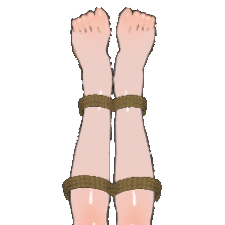
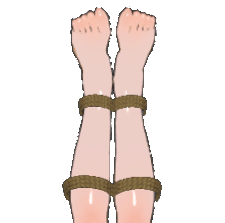
Hogtie Scripts
Hogtie Scripts

diff --git a/BondageClub/Screens/Inventory/ItemArms/HempRope/HempRope.js b/BondageClub/Screens/Inventory/ItemArms/HempRope/HempRope.js
@@ -2,29 +2,30 @@
 
 // Loads the item extension properties
 function InventoryItemArmsHempRopeLoad() {
-	if (DialogFocusItem.Property == null) DialogFocusItem.Property = { Type: null };
+	if (DialogFocusItem.Property == null) DialogFocusItem.Property = { Type: null, Effect: [] };
+	DialogExtendedMessage = DialogFind(Player, "SelectRopeBondage");
 }
 
 // Draw the item extension screen
 function InventoryItemArmsHempRopeDraw() {
-	
+
 	// Draw the header and item
 	DrawRect(1387, 125, 225, 275, "white");
 	DrawImageResize("Assets/" + DialogFocusItem.Asset.Group.Family + "/" + DialogFocusItem.Asset.Group.Name + "/Preview/" + DialogFocusItem.Asset.Name + ".png", 1389, 127, 221, 221);
 	DrawTextFit(DialogFocusItem.Asset.Description, 1500, 375, 221, "black");
 
 	// Draw the possible positions and their requirements
-	DrawText(DialogFind(Player, "SelectBondagePosition"), 1500, 500, "white", "gray");
+	DrawText(DialogExtendedMessage, 1500, 475, "white", "gray");
 	DrawButton(1050, 550, 225, 225, "", (DialogFocusItem.Property.Type == null) ? "#888888" : "White");
-	DrawImage("Screens/Inventory/" + DialogFocusItem.Asset.Group.Name + "/" + DialogFocusItem.Asset.Name + "/BoxTie.png", 1050, 550);
+	DrawImage("Screens/Inventory/" + DialogFocusItem.Asset.Group.Name + "/" + DialogFocusItem.Asset.Name + "/BoxTie.png", 1050, 551);
 	DrawText(DialogFind(Player, "RopeBondageBoxTie"), 1163, 800, "white", "gray");
 	DrawText(DialogFind(Player, "NoRequirement"), 1163, 850, "white", "gray");
 	DrawButton(1387, 550, 225, 225, "", ((DialogFocusItem.Property.Type != null) && (DialogFocusItem.Property.Type == "Hogtied")) ? "#888888" : (SkillGetLevelReal(Player, "Bondage") < 4) ? "Pink" : "White");
-	DrawImage("Screens/Inventory/" + DialogFocusItem.Asset.Group.Name + "/" + DialogFocusItem.Asset.Name + "/Hogtied.png", 1387, 550);
+	DrawImage("Screens/Inventory/" + DialogFocusItem.Asset.Group.Name + "/" + DialogFocusItem.Asset.Name + "/Hogtied.png", 1387, 551);
 	DrawText(DialogFind(Player, "RopeBondageHogtied"), 1500, 800, "white", "gray");
 	DrawText(DialogFind(Player, "RequireBondageLevel").replace("ReqLevel", "4"), 1500, 850, "white", "gray");
 	DrawButton(1725, 550, 225, 225, "", ((DialogFocusItem.Property.Type != null) && (DialogFocusItem.Property.Type == "SuspensionHogtied")) ? "#888888" : (SkillGetLevelReal(Player, "Bondage") < 8) ? "Pink" : "White");
-	DrawImage("Screens/Inventory/" + DialogFocusItem.Asset.Group.Name + "/" + DialogFocusItem.Asset.Name + "/SuspensionHogtied.png", 1725, 550);
+	DrawImage("Screens/Inventory/" + DialogFocusItem.Asset.Group.Name + "/" + DialogFocusItem.Asset.Name + "/SuspensionHogtied.png", 1725, 551);
 	DrawText(DialogFind(Player, "RopeBondageSuspensionHogtied"), 1838, 800, "white", "gray");
 	DrawText(DialogFind(Player, "RequireBondageLevel").replace("ReqLevel", "8"), 1838, 850, "white", "gray");
 
@@ -39,7 +40,7 @@ function InventoryItemArmsHempRopeClick() {
 }
 
 // Sets the hemp rope pose (hogtied, suspension, etc.)
-function InventoryItemArmsHempRopeSetPose(NewPose) {
+function InventoryItemArmsHempRopeSetPose(NewType) {
 
 	// Gets the current item and character
 	var C = (Player.FocusGroup != null) ? Player : CurrentCharacter;
@@ -48,29 +49,48 @@ function InventoryItemArmsHempRopeSetPose(NewPose) {
 		InventoryItemArmsHempRopeLoad();
 	}
 
-	// Make sure the character can be restrained in that fashion
-	if ((NewPose != null) && !InventoryAllow(C, ["NotKneeling", "NotSuspended", "NotMounted", "NotChained"], true)) return;
+	// Validates a few parameters before hogtied
+	if ((NewType != null) && !InventoryAllow(C, ["NotKneeling", "NotMounted", "NotChained", "NotHogtied"], true)) { DialogExtendedMessage = DialogText; return; }
 
 	// Sets the new pose with it's effects
-	DialogFocusItem.Property.Type = NewPose;
-	DialogFocusItem.Property.Effect = (NewPose == null) ? [] : "Freeze";
-	DialogFocusItem.Property.Block = (NewPose == null) ? null : ["ItemHands", "ItemLegs", "ItemFeet", "ItemBoots"];
-	if (NewPose == null) { DialogFocusItem.Property.SetPose = ["BackBoxTie"]; DialogFocusItem.Property.Difficulty = 0; }
-	if (NewPose == "Hogtied") { DialogFocusItem.Property.SetPose = ["Hogtied"]; DialogFocusItem.Property.Difficulty = 2; CharacterSetFacialExpression(C, "Blush", "Medium"); TimerInventoryRemoveSet(C, "Blush", 10); }
-	if (NewPose == "SuspensionHogtied") { DialogFocusItem.Property.SetPose = ["SuspensionHogtied"]; DialogFocusItem.Property.Difficulty = 6; CharacterSetFacialExpression(C, "Blush", "Medium"); TimerInventoryRemoveSet(C, "Blush", 20); }
-
-	// Refreshes the character and chatroom
+	DialogFocusItem.Property.Type = NewType;
+	DialogFocusItem.Property.Effect = (NewType == null) ? ["Block", "Prone"] : ["Block", "Freeze", "Prone"];
+	DialogFocusItem.Property.Block = (NewType == null) ? null : ["ItemHands", "ItemLegs", "ItemFeet", "ItemBoots"];
+	if (NewType == null) {
+		DialogFocusItem.Property.SetPose = ["BackBoxTie"];
+		DialogFocusItem.Property.Difficulty = 0;
+		InventoryRemove(C, "ItemHidden");
+	}
+	if (NewType == "Hogtied") {
+		DialogFocusItem.Property.SetPose = ["Hogtied"];
+		DialogFocusItem.Property.Difficulty = 2;
+		CharacterSetFacialExpression(C, "Blush", "Medium");
+		TimerInventoryRemoveSet(C, "Blush", 10);
+		InventoryRemove(C, "ItemHidden");
+	}
+	if (NewType == "SuspensionHogtied") {
+		DialogFocusItem.Property.SetPose = ["Hogtied", "SuspensionHogtied"]; 
+		DialogFocusItem.Property.Difficulty = 6; 
+		CharacterSetFacialExpression(C, "Blush", "Medium"); 
+		TimerInventoryRemoveSet(C, "Blush", 20);
+		InventoryWear(C, "SuspensionHempRope", "ItemHidden", DialogFocusItem.Color);
+	}
 	CharacterRefresh(C);
-	var msg = "HempRopePosition" + ((NewPose == null) ? "BoxTie" : NewPose);
-	var Dictionary = [];
-	Dictionary.push({Tag: "SourceCharacter", Text: Player.Name, MemberNumber: Player.MemberNumber});
-	Dictionary.push({Tag: "DestinationCharacter", Text: C.Name, MemberNumber: C.MemberNumber});
-	ChatRoomPublishCustomAction(msg, true, Dictionary);
 
-	// Rebuilds the inventory menu
-	if (DialogInventory != null) {
-		DialogFocusItem = null;
-		DialogMenuButtonBuild(C);
+	// Sets the chatroom or NPC message
+	if (CurrentScreen == "ChatRoom") {
+		ChatRoomCharacterUpdate(C);
+		var msg = "ArmsRopeSet" + ((NewType) ? NewType : "BoxTie");
+		var Dictionary = [];
+		Dictionary.push({Tag: "SourceCharacter", Text: Player.Name, MemberNumber: Player.MemberNumber});
+		Dictionary.push({Tag: "DestinationCharacter", Text: C.Name, MemberNumber: C.MemberNumber});
+		ChatRoomPublishCustomAction(msg, true, Dictionary);
+	} else {
+		if (C.ID == 0) DialogMenuButtonBuild(C);
+		else {
+			C.CurrentDialog = DialogFind(C, "RopeBondage" + ((NewType) ? NewType : "BoxTie"), "ItemArms");
+			C.FocusGroup = null;
+		}
 	}
 
 }

diff --git a/BondageClub/Assets/Female3DCG/Female3DCG.js b/BondageClub/Assets/Female3DCG/Female3DCG.js
@@ -1002,7 +1002,7 @@ var AssetFemale3DCG = [
 		Zone: [[30, 250, 100, 150], [370, 250, 100, 150]],
 		Asset: [
 			{ Name: "NylonRope", DefaultColor: "#909090", SelfBondage: false, Value: 30, BuyGroup: ["NylonRope"], SetPose: ["BackBoxTie"], Effect: ["Block", "Prone"], Time: 15 },
-			{ Name: "HempRope", Extended: true, SelfBondage: false, Value: 60, SetPose: ["BackBoxTie"], BuyGroup: ["HempRope"], Effect: ["Block", "Prone"], Time: 20, Difficulty: 3 },
+			{ Name: "HempRope", Extended: true, SelfBondage: false, Value: 60, SetPose: ["BackBoxTie"], AllowType: ["Hogtied", "SuspensionHogtied"], BuyGroup: ["HempRope"], Effect: ["Block", "Prone"], Time: 20, Difficulty: 3, RemoveItemOnRemove: [{ Name: "SuspensionHempRope", Group: "ItemHidden" }] },
 			{ Name: "MetalCuffs", Priority: 30, Value: 40, SetPose: ["BackCuffs"], Effect: ["Block", "Prone", "Lock"], Difficulty: 5, Time: 5 },
 			{ Name: "SturdyLeatherBelts", SelfBondage: false, AllowLock: true, Value: 50, SetPose: ["BackElbowTouch"], Effect: ["Block", "Prone"], Time: 20, Difficulty: 5, BuyGroup: "SturdyLeatherBelts", Extended: true, AllowType: ["One", "Two", "Three", "Four"] },
 			{ Name: "LeatherArmbinder", DefaultColor: "#404040", Extended: true, SelfBondage: false, SelfUnlock: false, Priority: 6, Value: 80, SetPose: ["BackElbowTouch"], Effect: ["Block", "Prone"], Block: ["ItemHands"], Time: 25, RemoveTime: 10, Difficulty: 10, AllowLock: true, RemoveItemOnRemove: [{ Name: "LeatherArmbinderStrap", Group: "ItemHidden" },{ Name: "LeatherArmbinderWrapStrap", Group: "ItemHidden"}] },
@@ -1524,7 +1524,7 @@ var AssetFemale3DCG = [
 			{ Name: "DogHood", DefaultColor: "#404040", Random: false, Effect: ["Prone", "GagNormal"], Hide: ["HairFront", "HairBack", "Glasses", "ItemMouth", "ItemMouth2", "ItemMouth3", "HairAccessory1", "HairAccessory2"], Block: ["ItemMouth", "ItemMouth2", "ItemMouth3", "ItemEars"], Difficulty: 50, Value: 60, Time: 15, AllowLock: true },
 			{ Name: "FoxyMask", Random: false, Effect: ["Prone", "GagLight"], Hide: ["Glasses", "ItemMouth", "ItemMouth2", "ItemMouth3"], Block: ["ItemMouth", "ItemMouth2", "ItemMouth3"], Difficulty: 2, Value: 50, Time: 15, AllowLock: true },
 			{ Name: "SleepMask", Effect: ["BlindLight", "Prone"], Hide: ["Glasses"], Value: 5, Time: 5 },
-			{ Name: "BlackoutLenses", Effect: ["BlindHeavy", "Prone"], Hide: ["Glasses", "Eyes"], Difficulty: 10, Value: 60 }
+			{ Name: "BlackoutLenses", Random: false, Effect: ["BlindHeavy", "Prone"], Hide: ["Glasses", "Eyes"], Difficulty: 10, Value: 60 }
 		]
 	},
 
@@ -1649,8 +1649,9 @@ var AssetFemale3DCG = [
 		IsRestraint: true,
 		Color: ["Default"],
 		Asset: [
-		    { Name: "LeatherArmbinderStrap", RemoveAtLogin: false, Priority: 32,  AllowType: ["Strap", "WrapStrap", "None"], Value: -1, Time: 5, Difficulty: 12 },
-			{ Name: "LeatherArmbinderWrapStrap", RemoveAtLogin: false, Priority: 32, AllowType: ["WrapStrap", "None"], Value: -1, Time: 5, Difficulty: 12 }
+		    { Name: "LeatherArmbinderStrap", Priority: 32,  AllowType: ["Strap", "WrapStrap", "None"], Value: -1 },
+			{ Name: "LeatherArmbinderWrapStrap", Priority: 32, AllowType: ["WrapStrap", "None"], Value: -1 },
+			{ Name: "SuspensionHempRope", Priority: 32, Value: -1 }
 		]
 	}
 	
@@ -1681,6 +1682,16 @@ var PoseFemale3DCG = [
 	{
 		Name: "Hogtied",
 		OverrideHeight: -575,
+		Hide: ["BodyLower", "Hands", "ClothLower", "Socks", "Shoes", "Wings", "TailStraps", "Gloves", "Panties", "Pussy", "ItemHands", "ItemPelvis", "ItemVulva", "ItemButt", "ItemLegs", "ItemFeet"]
+	},
+	{
+		Name: "Suspension",
+		OverrideHeight: 150,
+		Hide: []
+	},
+	{
+		Name: "SuspensionHogtied",
+		OverrideHeight: 0,
 		Hide: ["BodyLower", "Hands", "ClothLower", "Socks", "Shoes", "Wings", "TailStraps", "Gloves", "Panties", "Pussy", "ItemHands", "ItemPelvis", "ItemVulva", "ItemButt", "ItemLegs", "ItemFeet"]
 	}
 

diff --git a/BondageClub/Screens/Inventory/ItemFeet/HempRope/HempRope.js b/BondageClub/Screens/Inventory/ItemFeet/HempRope/HempRope.js
@@ -1,10 +1,9 @@
 "use strict";
-var InventoryItemFeetHempRopeMessage = "";
 
 // Loads the item extension properties
 function InventoryItemFeetHempRopeLoad() {
-	if (DialogFocusItem.Property == null) DialogFocusItem.Property = { Type: null };
-	InventoryItemFeetHempRopeMessage = DialogFind(Player, "SelectRopeBondage");
+	if (DialogFocusItem.Property == null) DialogFocusItem.Property = { Type: null, Effect: [] };
+	DialogExtendedMessage = DialogFind(Player, "SelectRopeBondage");
 }
 
 // Draw the item extension screen
@@ -16,7 +15,7 @@ function InventoryItemFeetHempRopeDraw() {
 	DrawTextFit(DialogFocusItem.Asset.Description, 1500, 375, 221, "black");
 
 	// Draw the possible positions and their requirements
-	DrawText(InventoryItemFeetHempRopeMessage, 1500, 475, "white", "gray");
+	DrawText(DialogExtendedMessage, 1500, 475, "white", "gray");
 	DrawButton(1050, 550, 225, 225, "", (DialogFocusItem.Property.Type == null || DialogFocusItem.Property.Type == "Basic") ? "#888888" : "White");
 	DrawImage("Screens/Inventory/" + DialogFocusItem.Asset.Group.Name + "/" + DialogFocusItem.Asset.Name + "/Basic.png", 1050, 551);
 	DrawText(DialogFind(Player, "RopeBondageBasic"), 1163, 800, "white", "gray");
@@ -51,14 +50,8 @@ function InventoryItemFeetHempRopeSetType(NewType) {
 	}
 
 	// Validates a few parameters before suspending
-	if ((NewType == "Suspension") && !InventoryAllow(C, ["NotKneeling", "NotMounted", "NotChained", "NotHogtied"], true)) {
-		InventoryItemFeetHempRopeMessage = DialogText;
-		return;
-	}
-	if ((NewType == "Suspension") && (C.ID == 0)) {
-		InventoryItemFeetHempRopeMessage = DialogFind(Player, "CannotUseOnSelf");
-		return;
-	}
+	if ((NewType == "Suspension") && !InventoryAllow(C, ["NotKneeling", "NotMounted", "NotChained", "NotHogtied"], true)) { DialogExtendedMessage = DialogText; return; }
+	if ((NewType == "Suspension") && (C.ID == 0)) { DialogExtendedMessage = DialogFind(Player, "CannotUseOnSelf"); return; }
 
 	// Sets the position, difficulty and blush effect
 	DialogFocusItem.Property.Type = NewType;
@@ -77,22 +70,23 @@ function InventoryItemFeetHempRopeSetType(NewType) {
 		CharacterSetFacialExpression(C, "Blush", "High");
 		TimerInventoryRemoveSet(C, "Blush", 30);
 	}
-
-	// Refreshes the character
 	CharacterRefresh(C);
-	ChatRoomCharacterUpdate(C);
 
-	// Sets the chatroom message
-	var msg = "LegRopeSet" + ((NewType) ? NewType : "Basic");
-	var Dictionary = [];
-	Dictionary.push({Tag: "SourceCharacter", Text: Player.Name, MemberNumber: Player.MemberNumber});
-	Dictionary.push({Tag: "TargetCharacter", Text: C.Name, MemberNumber: C.MemberNumber});
-	ChatRoomPublishCustomAction(msg, true, Dictionary);
-
-	// Rebuilds the inventory menu
-	if (DialogInventory != null) {
+	// Sets the chatroom or NPC message
+	if (CurrentScreen == "ChatRoom") {
+		ChatRoomCharacterUpdate(C);
+		var msg = "LegRopeSet" + ((NewType) ? NewType : "Basic");
+		var Dictionary = [];
+		Dictionary.push({Tag: "SourceCharacter", Text: Player.Name, MemberNumber: Player.MemberNumber});
+		Dictionary.push({Tag: "TargetCharacter", Text: C.Name, MemberNumber: C.MemberNumber});
+		ChatRoomPublishCustomAction(msg, true, Dictionary);
+	} else {
 		DialogFocusItem = null;
-		DialogMenuButtonBuild(C);
+		if (C.ID == 0) DialogMenuButtonBuild(C);
+		else {
+			C.CurrentDialog = DialogFind(C, "RopeBondage" + ((NewType) ? NewType : "Basic"), "ItemFeet");
+			C.FocusGroup = null;
+		}
 	}
 
 }

diff --git a/BondageClub/Screens/Inventory/ItemLegs/HempRope/HempRope.js b/BondageClub/Screens/Inventory/ItemLegs/HempRope/HempRope.js
@@ -2,7 +2,7 @@
 
 // Loads the item extension properties
 function InventoryItemLegsHempRopeLoad() {
-	if (DialogFocusItem.Property == null) DialogFocusItem.Property = { Type: null };
+	if (DialogFocusItem.Property == null) DialogFocusItem.Property = { Type: null, Effect: [] };
 }
 
 // Draw the item extension screen
@@ -16,11 +16,11 @@ function InventoryItemLegsHempRopeDraw() {
 	// Draw the possible rope bondage positions
 	DrawText(DialogFind(Player, "SelectRopeBondage"), 1500, 475, "white", "gray");
 	DrawButton(1175, 550, 225, 225, "", (DialogFocusItem.Property.Type == null || DialogFocusItem.Property.Type == "Basic") ? "#888888" : "White");
-	DrawImage("Screens/Inventory/" + DialogFocusItem.Asset.Group.Name + "/" + DialogFocusItem.Asset.Name + "/Basic.png", 1175, 550);
+	DrawImage("Screens/Inventory/" + DialogFocusItem.Asset.Group.Name + "/" + DialogFocusItem.Asset.Name + "/Basic.png", 1175, 551);
 	DrawText(DialogFind(Player, "RopeBondageBasic"), 1288, 800, "white", "gray");
 	DrawText(DialogFind(Player, "NoRequirement").replace("ReqLevel", "2"), 1288, 850, "white", "gray");
 	DrawButton(1600, 550, 225, 225, "", ((DialogFocusItem.Property.Type != null) && (DialogFocusItem.Property.Type == "Mermaid")) ? "#888888" : (SkillGetLevelReal(Player, "Bondage") < 2) ? "Pink" : "White");
-	DrawImage("Screens/Inventory/" + DialogFocusItem.Asset.Group.Name + "/" + DialogFocusItem.Asset.Name + "/Mermaid.png", 1600, 550);
+	DrawImage("Screens/Inventory/" + DialogFocusItem.Asset.Group.Name + "/" + DialogFocusItem.Asset.Name + "/Mermaid.png", 1600, 551);
 	DrawText(DialogFind(Player, "RopeBondageMermaid"), 1713, 800, "white", "gray");
 	DrawText(DialogFind(Player, "RequireBondageLevel").replace("ReqLevel", "2"), 1713, 850, "white", "gray");
 
@@ -48,22 +48,23 @@ function InventoryItemLegsHempRopeSetType(NewType) {
 	DialogFocusItem.Property.Effect = [];
 	if (NewType == null) DialogFocusItem.Property.Difficulty = 0;
 	if (NewType == "Mermaid") DialogFocusItem.Property.Difficulty = 2;
-
-	// Refreshes the character
 	CharacterRefresh(C);
-	ChatRoomCharacterUpdate(C);
 
-	// Sets the chatroom message
-	var msg = "LegRopeSet" + ((NewType) ? NewType : "Basic");
-	var Dictionary = [];
-	Dictionary.push({Tag: "SourceCharacter", Text: Player.Name, MemberNumber: Player.MemberNumber});
-	Dictionary.push({Tag: "TargetCharacter", Text: C.Name, MemberNumber: C.MemberNumber});
-	ChatRoomPublishCustomAction(msg, true, Dictionary);
-
-	// Rebuilds the inventory menu
-	if (DialogInventory != null) {
+	// Sets the chatroom or NPC message
+	if (CurrentScreen == "ChatRoom") {
+		ChatRoomCharacterUpdate(C);
+		var msg = "LegRopeSet" + ((NewType) ? NewType : "Basic");
+		var Dictionary = [];
+		Dictionary.push({Tag: "SourceCharacter", Text: Player.Name, MemberNumber: Player.MemberNumber});
+		Dictionary.push({Tag: "TargetCharacter", Text: C.Name, MemberNumber: C.MemberNumber});
+		ChatRoomPublishCustomAction(msg, true, Dictionary);
+	} else {
 		DialogFocusItem = null;
-		DialogMenuButtonBuild(C);
+		if (C.ID == 0) DialogMenuButtonBuild(C);
+		else {
+			C.CurrentDialog = DialogFind(C, "RopeBondage" + ((NewType) ? NewType : "Basic"), "ItemLegs");
+			C.FocusGroup = null;
+		}
 	}
 
 }

diff --git a/BondageClub/Scripts/Dialog.js b/BondageClub/Scripts/Dialog.js
@@ -24,6 +24,7 @@ var DialogAllowEyebrows = false;
 var DialogAllowFluids = false;
 var DialogFacialExpressions = [];
 var DialogItemPermissionMode = false;
+var DialogExtendedMessage = "";
 
 function DialogReputationLess(RepType, Value) { return (ReputationGet(RepType) <= Value); } // Returns TRUE if a specific reputation type is less or equal than a given value
 function DialogReputationGreater(RepType, Value) { return (ReputationGet(RepType) >= Value); } // Returns FALSE if a specific reputation type is greater or equal than a given value
@@ -645,7 +646,7 @@ function DialogClick() {
 		var HeightRatio = CharacterAppearanceGetCurrentValue(C, "Height", "Zoom");
 		if ((Player != null) && (Player.VisualSettings != null) && (Player.VisualSettings.ForceFullHeight != null) && Player.VisualSettings.ForceFullHeight) HeightRatio = 1.0;
 		var Xoffset = 500 * (1 - HeightRatio) / 2;
-		var YOffset = 1000 * (1 - HeightRatio);
+		var YOffset = 1000 * ((C.Pose.indexOf("SuspensionHogtied") < 0) ? (1 - HeightRatio) : 0);
 		for (var A = 0; A < AssetGroup.length; A++)
 			if ((AssetGroup[A].Category == "Item") && (AssetGroup[A].Zone != null))
 				for (var Z = 0; Z < AssetGroup[A].Zone.length; Z++)
@@ -793,6 +794,7 @@ function DialogSetText(NewText) {
 
 // Extends a specific item (loads its settings and shows its own menu)
 function DialogExtendItem(Item, SourceItem) {
+	if ((CurrentScreen != "ChatRoom") && (CurrentCharacter.ID != 0)) CurrentCharacter.CurrentDialog = DialogFind(CurrentCharacter, Item.Asset.Group.Name);
 	DialogProgress = -1;
 	DialogColor = null;
 	DialogFocusItem = Item;

diff --git a/BondageClub/Scripts/Drawing.js b/BondageClub/Scripts/Drawing.js
@@ -115,7 +115,7 @@ function DrawCharacter(C, X, Y, Zoom, IsHeightResizeAllowed) {
 		if ((Player != null) && (Player.VisualSettings != null) && (Player.VisualSettings.ForceFullHeight != null) && Player.VisualSettings.ForceFullHeight) HeightRatio = 1.0;
 		if (Zoom == null) Zoom = 1;
 		X += Zoom * Canvas.width * (1 - HeightRatio) / 2;
-		Y += (C.Pose.indexOf("Suspension") < 0) ? Zoom * Canvas.height * (1 - HeightRatio) : -150;
+		if ((C.Pose.indexOf("Suspension") < 0) && (C.Pose.indexOf("SuspensionHogtied") < 0)) Y += Zoom * Canvas.height * (1 - HeightRatio);
 
 		// If we must dark the Canvas characters
 		if ((C.ID != 0) && Player.IsBlind() && (CurrentScreen != "InformationSheet")) {
@@ -165,7 +165,7 @@ function DrawCharacter(C, X, Y, Zoom, IsHeightResizeAllowed) {
 		if ((C.Name != "") && ((CurrentModule == "Room") || (CurrentModule == "Online") || ((CurrentScreen == "Wardrobe") && (C.ID != 0))) && (CurrentScreen != "Private"))
 			if (!Player.IsBlind()) {
 				MainCanvas.font = "30px Arial";
-				DrawText(C.Name, X + 255 * Zoom, Y + 980 * Zoom, (CommonIsColor(C.LabelColor)) ? C.LabelColor : "White", "Black");
+				DrawText(C.Name, X + 255 * Zoom, Y + 980 * ((C.Pose.indexOf("SuspensionHogtied") < 0) ? Zoom : 1), (CommonIsColor(C.LabelColor)) ? C.LabelColor : "White", "Black");
 				MainCanvas.font = "36px Arial";
 			}
 
